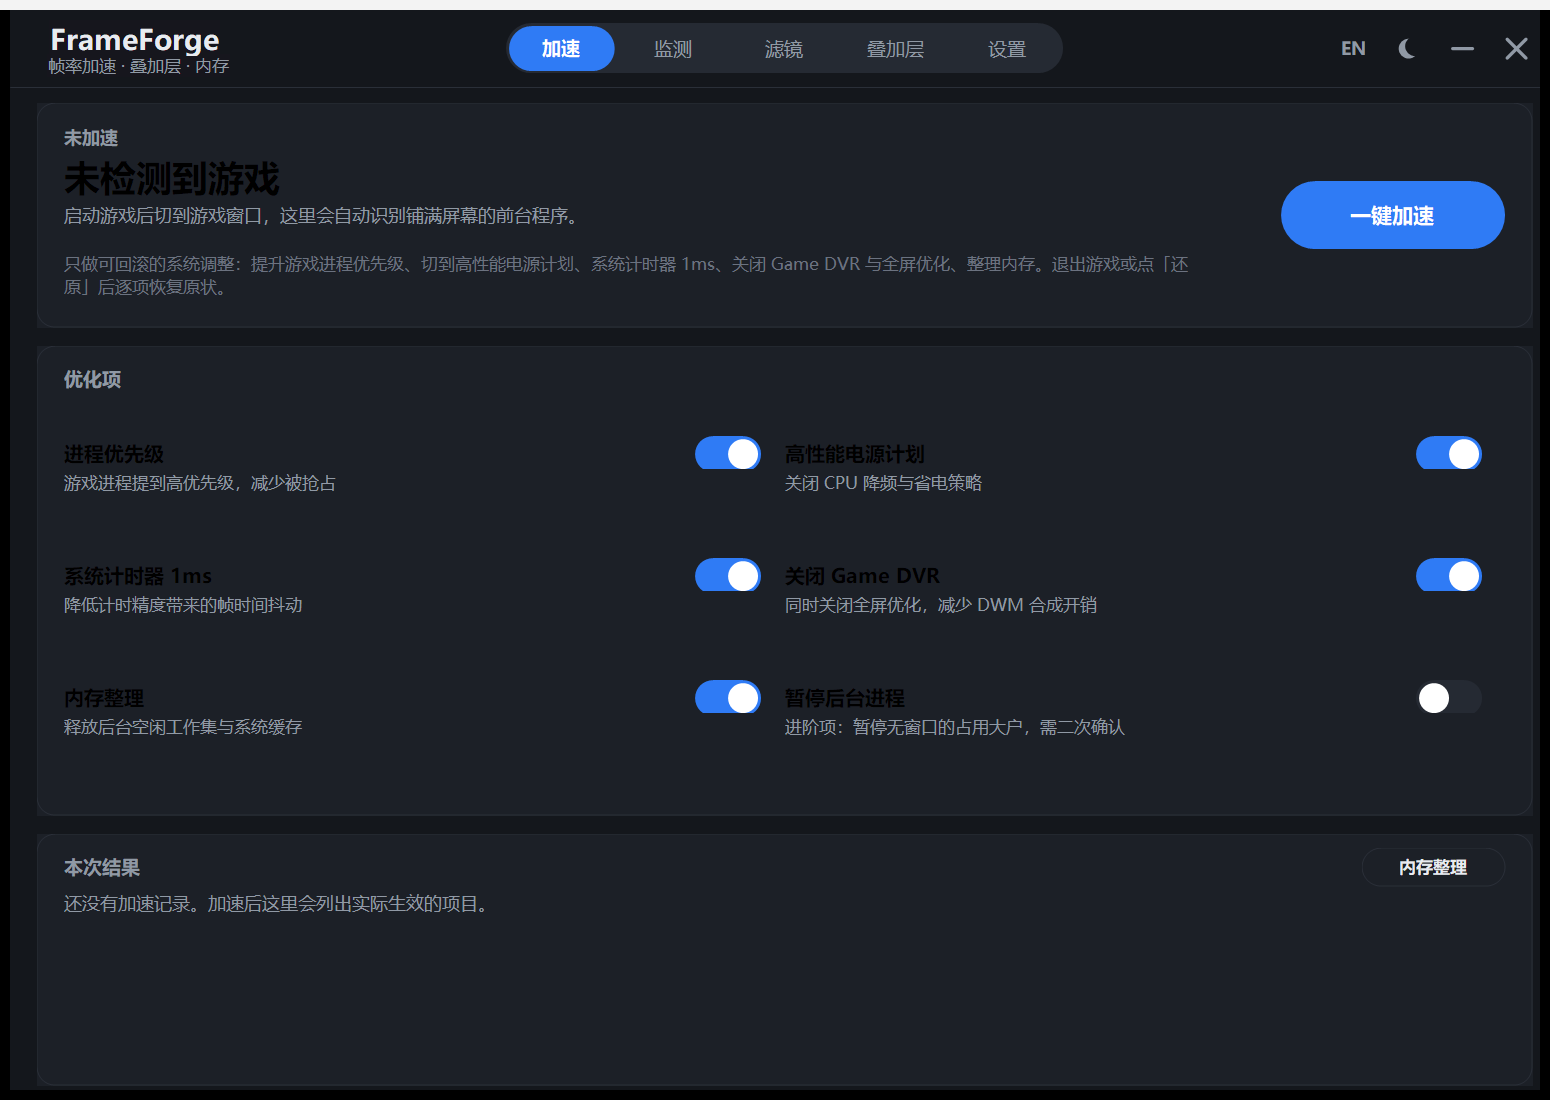
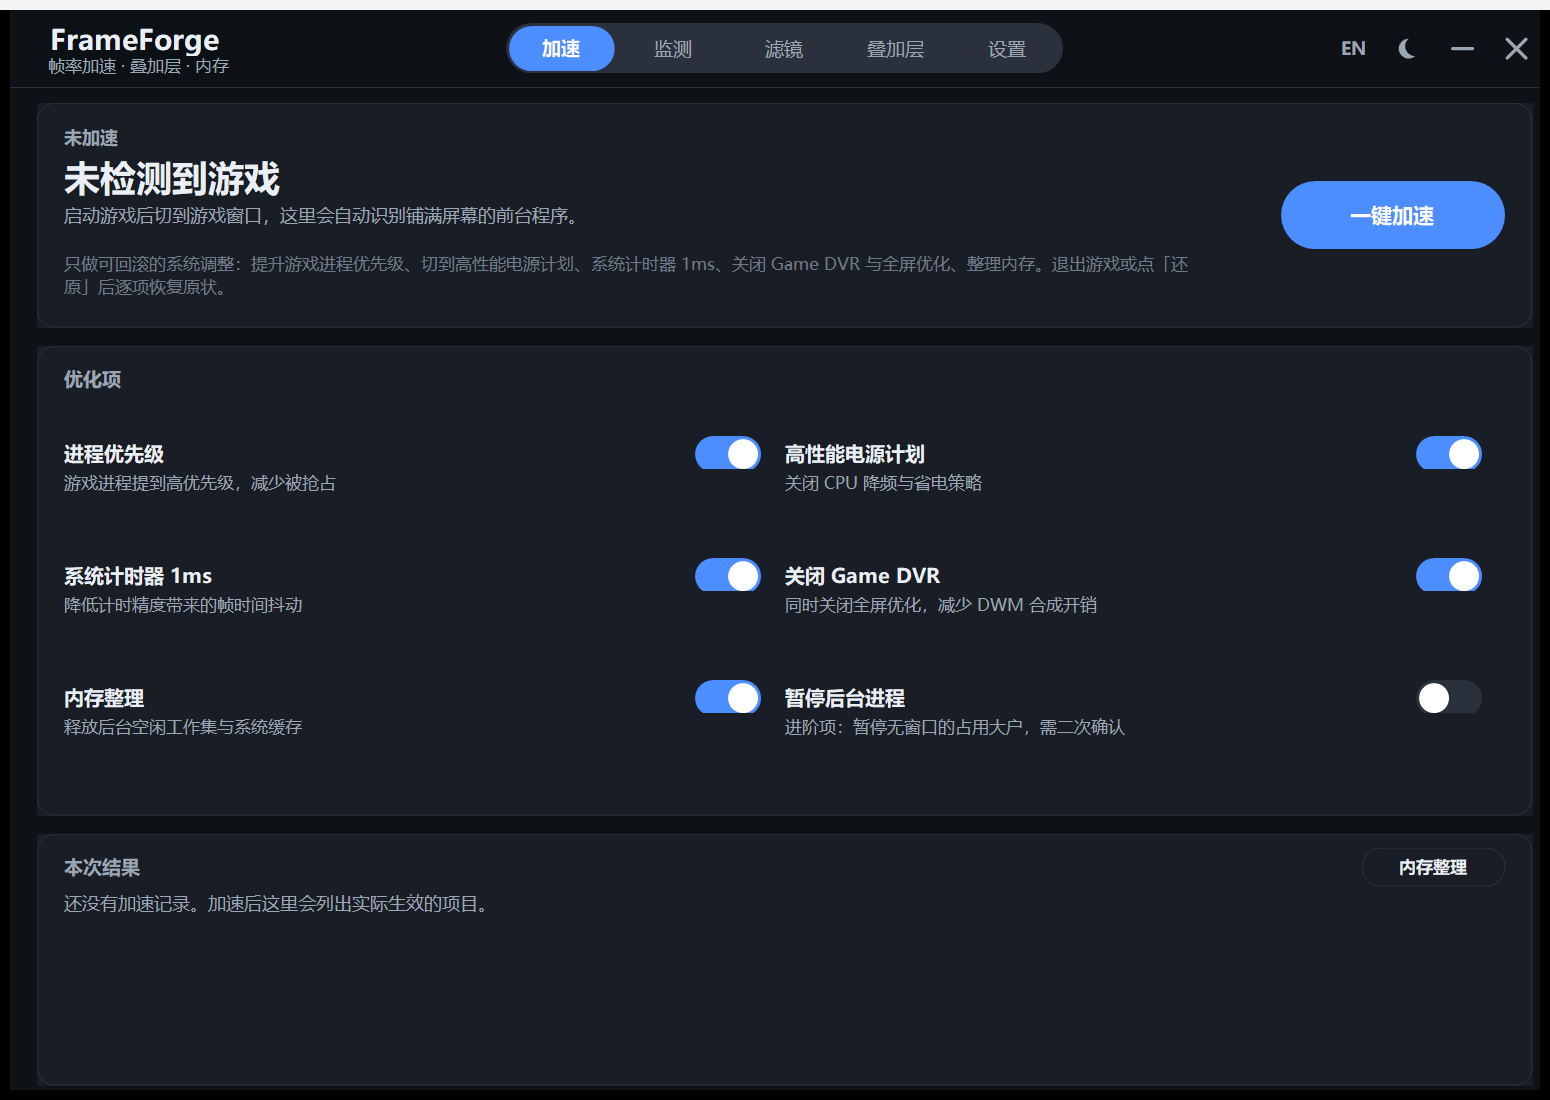
style: 重做夜间配色并修正暗色下的可读性与留白
- 夜间改用深蓝黑分层配色，卡片加顶部高光，避免纯黑堆叠
- TextLabel 默认前景色跟随主题，修复夜间黑底黑字
- 双极性滑杆从零点向两侧填充，满值时滑钮不再被裁切
- 叠加层/设置页把多余高度均摊到行距，去掉标题下的大块空白
- 文档截图更新为默认深色主题

diff --git a/src/UI/Pages.cs b/src/UI/Pages.cs
@@ -765,23 +765,26 @@ namespace FrameForge.UI
 
             ovTitle.SetBounds(pad, Ui.Px(12), Width - pad * 2, Ui.Px(20));
 
-            // 三行设置整块在卡片内垂直居中:窗口变高时空白在上下对称,
-            // 不会全部堆在卡片底部。
-            int off = Math.Max(0, (cardH - Ui.Px(252)) / 2);
+            // 卡片多出来的高度均摊进三段行距:行与行自然拉开,
+            // 而不是在标题下方留一块空、底部再留一块空。
+            int extra = Math.Max(0, cardH - Ui.Px(266));
+            int top = extra / 5;
+            int step = (extra - top) / 3;
+            int off1 = top, off2 = top + step, off3 = top + step * 2, off4 = top + step * 3;
 
-            onTitle.SetBounds(pad, Ui.Px(50) + off, Width - pad * 2 - toggleW - Ui.Px(12), Ui.Px(20));
-            onSub.SetBounds(pad, Ui.Px(70) + off, Width - pad * 2 - toggleW - Ui.Px(12), Ui.Px(18));
-            onToggle.SetBounds(right - toggleW, Ui.Px(52) + off, toggleW, Ui.Px(24));
+            onTitle.SetBounds(pad, Ui.Px(50) + off1, Width - pad * 2 - toggleW - Ui.Px(12), Ui.Px(20));
+            onSub.SetBounds(pad, Ui.Px(70) + off1, Width - pad * 2 - toggleW - Ui.Px(12), Ui.Px(18));
+            onToggle.SetBounds(right - toggleW, Ui.Px(52) + off1, toggleW, Ui.Px(24));
 
             int segW = Ui.Px(260);
-            styleTitle.SetBounds(pad, Ui.Px(108) + off, Ui.Px(90), Ui.Px(28));
-            style.SetBounds(right - segW, Ui.Px(104) + off, segW, Ui.Px(32));
+            styleTitle.SetBounds(pad, Ui.Px(108) + off2, Ui.Px(90), Ui.Px(28));
+            style.SetBounds(right - segW, Ui.Px(104) + off2, segW, Ui.Px(32));
 
-            scale.SetBounds(pad, Ui.Px(152) + off, Width - pad * 2, Ui.Px(44));
+            scale.SetBounds(pad, Ui.Px(152) + off3, Width - pad * 2, Ui.Px(44));
 
-            lockTitle.SetBounds(pad, Ui.Px(214) + off, Width - pad * 2 - toggleW - Ui.Px(12), Ui.Px(20));
-            lockSub.SetBounds(pad, Ui.Px(234) + off, Width - pad * 2 - toggleW - Ui.Px(12), Ui.Px(18));
-            lockToggle.SetBounds(right - toggleW, Ui.Px(216) + off, toggleW, Ui.Px(24));
+            lockTitle.SetBounds(pad, Ui.Px(214) + off4, Width - pad * 2 - toggleW - Ui.Px(12), Ui.Px(20));
+            lockSub.SetBounds(pad, Ui.Px(234) + off4, Width - pad * 2 - toggleW - Ui.Px(12), Ui.Px(18));
+            lockToggle.SetBounds(right - toggleW, Ui.Px(216) + off4, toggleW, Ui.Px(24));
 
             hintTitle.SetBounds(pad, Ui.Px(12), Width - pad * 2, Ui.Px(20));
             hotkey.SetBounds(pad, Ui.Px(46), Width - pad * 2, Ui.Px(40));
@@ -1176,13 +1179,13 @@ namespace FrameForge.UI
             int bw = Ui.Px(132), bh = Ui.Px(30);
             btnFps.SetBounds(rightW - pad - bw, fpsH - bh - Ui.Px(14), bw, bh);
 
-            // 管理员卡与关于卡通常吃掉剩余高度,内容整块垂直居中,
-            // 否则卡片中部会出现一大块空洞。
+            // 管理员卡与关于卡会吃掉窗口剩余的整块高度:把多出来的空白
+            // 均摊进各行之间的间距,内容铺满卡片,标题下方不会空一大截。
             PlaceHeader(adminCard, pad);
-            int adminOff = Math.Max(0, (adminH - Ui.Px(186)) / 2);
-            adminStatus.SetBounds(pad, Ui.Px(44) + adminOff, rightW - pad * 2, Ui.Px(22));
-            adminNote.SetBounds(pad, Ui.Px(70) + adminOff, rightW - pad * 2, Ui.Px(56));
-            btnAdmin.SetBounds(rightW - pad - bw, Ui.Px(140) + adminOff, bw, bh);
+            int adminExtra = Math.Max(0, adminH - Ui.Px(210));
+            adminStatus.SetBounds(pad, Ui.Px(44) + adminExtra / 8, rightW - pad * 2, Ui.Px(22));
+            adminNote.SetBounds(pad, Ui.Px(70) + adminExtra * 3 / 8, rightW - pad * 2, Ui.Px(56));
+            btnAdmin.SetBounds(rightW - pad - bw, Ui.Px(140) + adminExtra * 7 / 8, bw, bh);
 
             PlaceHeader(hotCard, pad);
             int keyW = Ui.Px(150);
@@ -1192,11 +1195,11 @@ namespace FrameForge.UI
             hotBoostKey.SetBounds(colW - pad - keyW, Ui.Px(76), keyW, Ui.Px(26));
 
             PlaceHeader(aboutCard, pad);
-            int aboutOff = Math.Max(0, (aboutH - Ui.Px(216)) / 2);
-            aboutName.SetBounds(pad, Ui.Px(44) + aboutOff, colW - pad * 2, Ui.Px(22));
-            aboutNotice.SetBounds(pad, Ui.Px(72) + aboutOff, colW - pad * 2, Ui.Px(44));
-            aboutEnv.SetBounds(pad, Ui.Px(122) + aboutOff, colW - pad * 2, Ui.Px(40));
-            btnLog.SetBounds(pad, Ui.Px(176) + aboutOff, bw, bh);
+            int aboutExtra = Math.Max(0, aboutH - Ui.Px(228));
+            aboutName.SetBounds(pad, Ui.Px(44) + aboutExtra / 8, colW - pad * 2, Ui.Px(22));
+            aboutNotice.SetBounds(pad, Ui.Px(72) + aboutExtra * 3 / 8, colW - pad * 2, Ui.Px(44));
+            aboutEnv.SetBounds(pad, Ui.Px(122) + aboutExtra * 5 / 8, colW - pad * 2, Ui.Px(40));
+            btnLog.SetBounds(pad, Ui.Px(176) + aboutExtra * 7 / 8, bw, bh);
         }
 
         private static void PlaceHeader(Card c, int pad)

diff --git a/src/UI/Widgets.cs b/src/UI/Widgets.cs
@@ -89,10 +89,12 @@ namespace FrameForge.UI
 
             float s = Ui.S;
             float labelH = Ui.Fp(18);
+            // 双极性滑杆(-100~100)正值补一个加号,数值方向一眼可辨。
+            string shown = val > 0 && Min < 0 ? "+" + val : val.ToString();
             TextRenderer.DrawText(g, Label, Theme.F(9f, FontStyle.Regular),
                 new Rectangle(0, 0, Width, (int)labelH), Theme.Sub,
                 TextFormatFlags.Left | TextFormatFlags.VerticalCenter | TextFormatFlags.SingleLine | TextFormatFlags.NoPrefix);
-            TextRenderer.DrawText(g, val + Unit, Theme.F(9.5f, FontStyle.Bold),
+            TextRenderer.DrawText(g, shown + Unit, Theme.F(9.5f, FontStyle.Bold),
                 new Rectangle(0, 0, Width, (int)labelH), Theme.Text,
                 TextFormatFlags.Right | TextFormatFlags.VerticalCenter | TextFormatFlags.SingleLine | TextFormatFlags.NoPrefix);
 
@@ -102,12 +104,20 @@ namespace FrameForge.UI
             Ui.Fill(g, track, track.Height / 2f, Theme.Track);
 
             double t = (val - Min) / (double)Math.Max(1, Max - Min);
-            var filled = new RectangleF(left, cy - Ui.Fp(2), (float)((right - left) * t), Ui.Fp(4));
+            // 双极性滑杆从中间零点向两侧填充:0 值不该显示成"半条蓝线"。
+            bool bipolar = Min < 0 && Max > 0;
+            float from = bipolar ? left + (right - left) * (float)((0 - Min) / (double)(Max - Min)) : left;
+            float to = left + (right - left) * (float)t;
+            var filled = new RectangleF(Math.Min(from, to), cy - Ui.Fp(2), Math.Abs(to - from), Ui.Fp(4));
             if (filled.Width > 0.5f)
                 Ui.Fill(g, filled, filled.Height / 2f, Theme.Accent);
 
             float knob = Ui.Fp(13);
-            var kr = new RectangleF(left + (float)((right - left) * t) - knob / 2f, cy - knob / 2f, knob, knob);
+            float kx = left + (float)((right - left) * t) - knob / 2f;
+            // 两端收进控件内,满值/零值时滑钮不会被裁掉半个。
+            if (kx < 0f) kx = 0f;
+            if (kx > Width - knob) kx = Width - knob;
+            var kr = new RectangleF(kx, cy - knob / 2f, knob, knob);
             using (var b = new SolidBrush(Theme.Card)) g.FillEllipse(b, kr);
             using (var pen = new Pen(hover || drag ? Theme.AccentHover : Theme.Accent, Math.Max(2f, Ui.Fp(2.6))))
                 g.DrawEllipse(pen, kr);

diff --git a/src/UI/Controls.cs b/src/UI/Controls.cs
@@ -105,7 +105,20 @@ namespace FrameForge.UI
             Graphics g = e.Graphics;
             Prep(g);
             var r = new RectangleF(0, 0, Width - 1, Height - 1);
+            // 卡片用纯色:子控件是按自身 BackColor 铺底的,卡片一旦用渐变,
+            // 文字标签就会在渐变上露出一个个色块。
             Ui.Fill(g, r, Ui.Fp(Radius), Theme.Card);
+            if (Theme.Dark)
+            {
+                // 夜间模式卡片顶部加一道极淡的高光边,让纯色块有"玻璃边缘"的层次感。
+                using (GraphicsPath p = Ui.Round(r, Ui.Fp(Radius)))
+                using (var pen = new Pen(Theme.Alpha(Color.White, 12), 1f))
+                {
+                    g.SetClip(p);
+                    g.DrawLine(pen, 0f, 0.5f, Width, 0.5f);
+                    g.ResetClip();
+                }
+            }
             if (ShowBorder) Ui.Stroke(g, r, Ui.Fp(Radius), Theme.Border, 1f);
         }
     }
@@ -118,6 +131,12 @@ namespace FrameForge.UI
         public ContentAlignment Align = ContentAlignment.MiddleLeft;
         public bool Wrap = false;
         public bool Ellipsis = false;
+
+        public TextLabel()
+        {
+            // 控件默认前景色是黑色,夜间模式下会变成黑底黑字。
+            ForeColor = Theme.Text;
+        }
 
         protected override void OnPaint(PaintEventArgs e)
         {

diff --git a/src/Theme.cs b/src/Theme.cs
@@ -42,17 +42,18 @@ namespace FrameForge
             }
             else
             {
-                Bg = Hex("#14171C");
-                Card = Hex("#1C2027");
-                Text = Hex("#E8EBF0");
-                Sub = Hex("#9099A5");
-                Faint = Hex("#6B7280");
-                Border = Hex("#2A2F38");
-                Track = Hex("#252A33");
-                Hover = Hex("#23272F");
+                // 夜间模式不要纯黑堆叠:底色偏深蓝黑,卡片逐层提亮,靠层差而不是描边区分层次。
+                Bg = Hex("#0E1116");
+                Card = Hex("#191E26");
+                Text = Hex("#EAEEF5");
+                Sub = Hex("#9BA6B4");
+                Faint = Hex("#6F7A88");
+                Border = Hex("#2A3140");
+                Track = Hex("#2A313C");
+                Hover = Hex("#222933");
             }
-            Accent = Hex("#2F7BF5");
-            AccentHover = Hex("#2565D9");
+            Accent = dark ? Hex("#4C8DFF") : Hex("#2F7BF5");
+            AccentHover = dark ? Hex("#3A7BF0") : Hex("#2565D9");
             Warn = Hex("#F0A020");
             Danger = Hex("#EF5350");
         }
